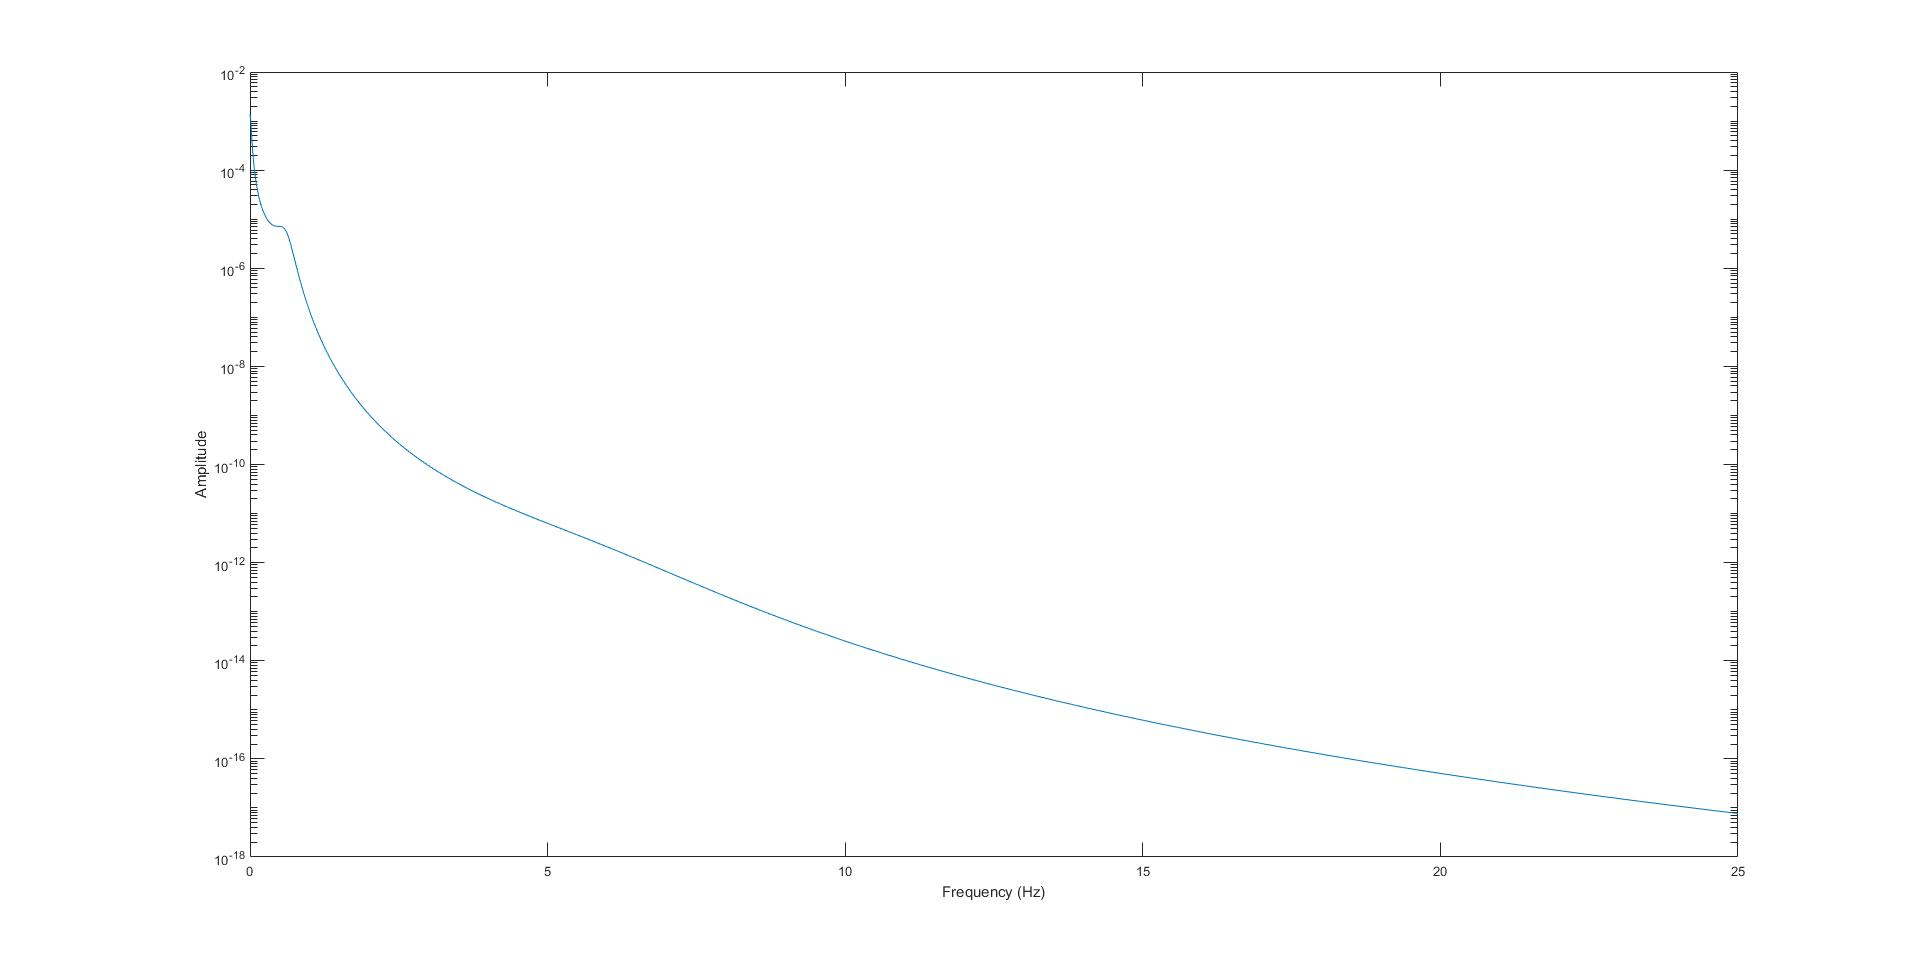
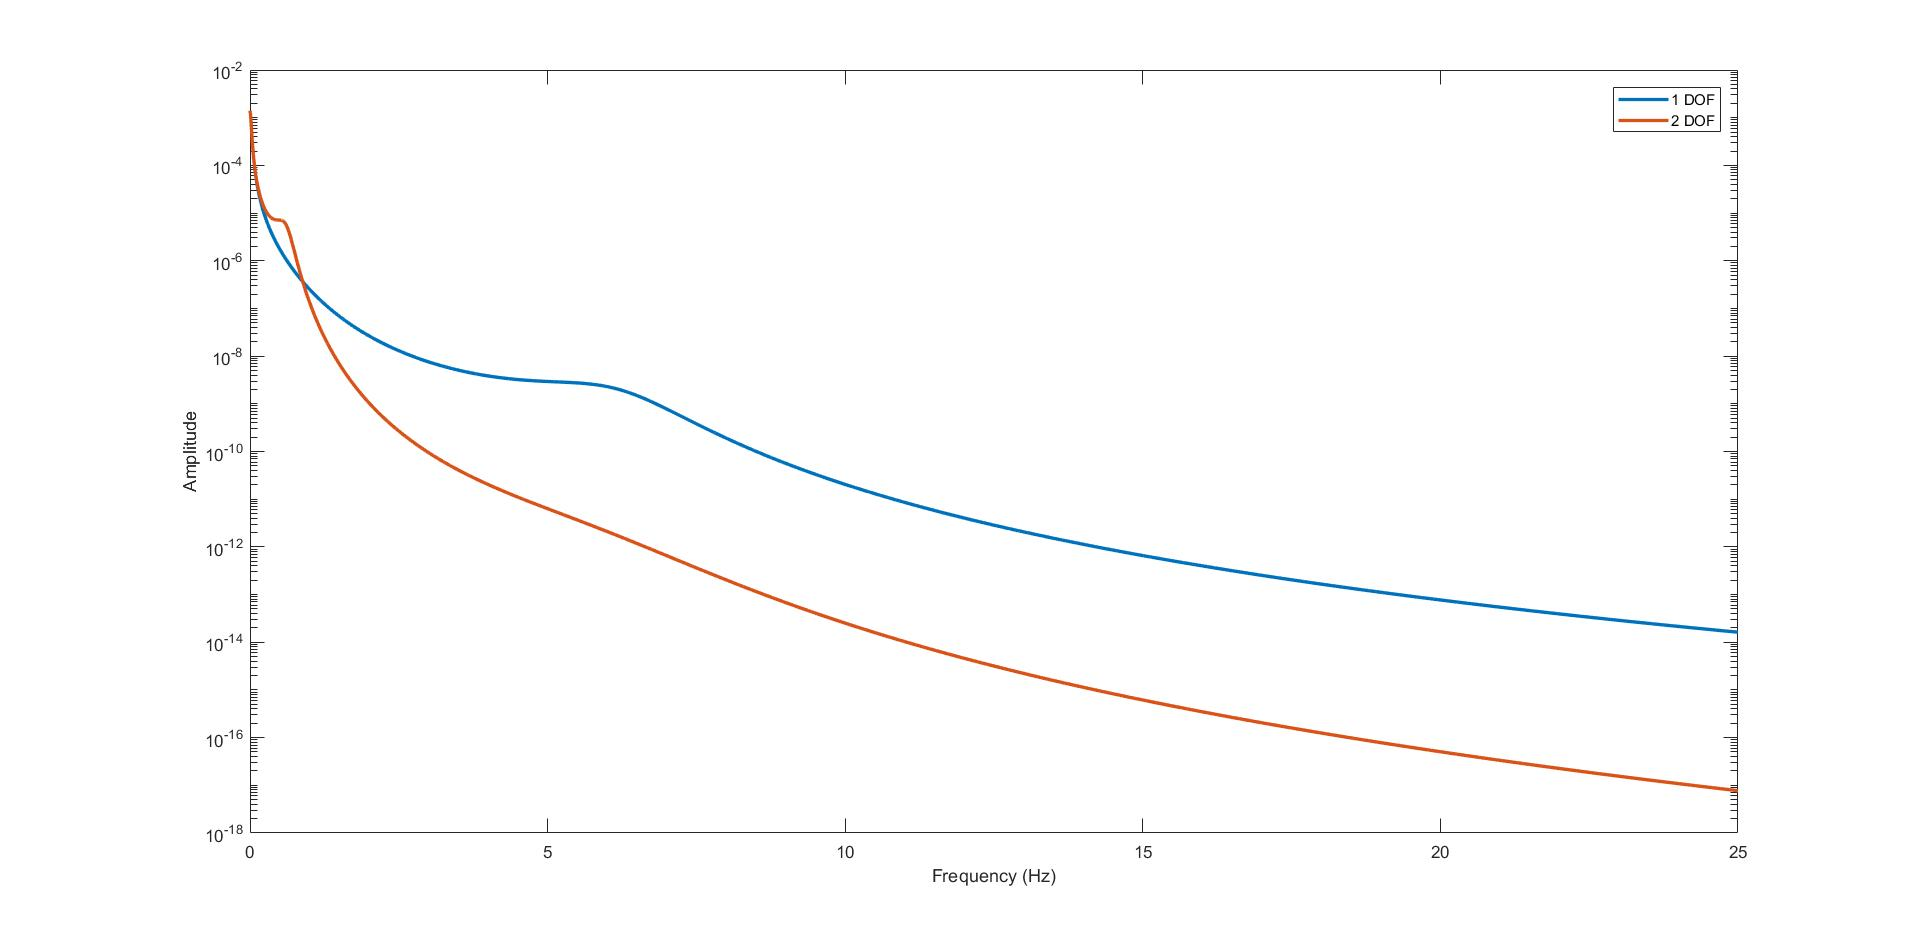
v

diff --git a/task6_2ComparisonBode.m b/task6_2ComparisonBode.m
@@ -1,3 +1,4 @@
+clear all;
 %%TASK 1.1
 m_p = 0.16; %kg
 c_p = 0.4; %Ns/m
@@ -12,36 +13,41 @@ H0 = tf([0,2*zeta*w_n,w_n^2],[1,2*zeta*w_n,w_n^2]);
 H1 = tf([0,2*zeta1*w_n,w_n^2],[1,2*zeta1*w_n,w_n^2]);
 
 
-% sine excitation
-t = 0:0.01:30;
-excitation_sin = 0.05*sin(3*t);
 
-figure(1)
-lsim(H0,excitation_sin,t) % sine excitation
-hold on;
 
-%% Impulse
-stepinput = 0.05*ones([1 length(t)]);
-for i = 101:length(t)
-   stepinput(i) = 0; 
-end
-
-figure(2)
-lsim(H0,stepinput,t) % impulse excitation
-hold on;
-
-%% PSD
-w = 0:0.01:25;
-PSD = (4.028e-7)./((2.88e-4)+(0.68*w.^2)+w.^4);
-H0freqdomain = freqresp(H0,w);
-H0 = abs(H0freqdomain(:))';
-PSD = H0.^2.*PSD;
-
-figure(3)
-semilogy(w,PSD);
-hold on;
-xlabel('Frequency (Hz)')
-ylabel('Amplitude')
+% % sine excitation
+% t = 0:0.01:30;
+% excitation_sin = 0.05*sin(3*t);
+% 
+% figure(1)
+% lsim(H0,excitation_sin,t) % sine excitation
+% hold on;
+% set(findall(gcf,'type','line'), 'LineWidth', 2);
+% 
+% %% Impulse
+% stepinput = 0.05*ones([1 length(t)]);
+% for i = 101:length(t)
+%    stepinput(i) = 0; 
+% end
+% 
+% figure(2)
+% lsim(H0,stepinput,t) % impulse excitation
+% hold on;
+% set(findall(gcf,'type','line'), 'LineWidth', 2);
+% 
+% %% PSD
+% w = 0:0.01:25;
+% PSD = (4.028e-7)./((2.88e-4)+(0.68*w.^2)+w.^4);
+% H0freqdomain = freqresp(H0,w);
+% H0 = abs(H0freqdomain(:))';
+% PSD = H0.^2.*PSD;
+% 
+% figure(3)
+% semilogy(w,PSD);
+% hold on;
+% set(findall(gcf,'type','line'), 'LineWidth', 2);
+% xlabel('Frequency (Hz)')
+% ylabel('Amplitude')
 
 cs = 0.05;
 ms = 0.16;
@@ -61,33 +67,38 @@ s = tf('s');
 H = (-kp-cp*s)/(ks+cs*s+((ks+cs*s+ms*s^2)/(ks+cs*s))*(-ks-cs*s-kp-cp*s-mp*s^2));
 % H = tf(cs*cp*s^2+kp*cs*s+cp*ks*s+ks*kp,(ms*s^2+cs*s+ks)*(mp*s^2+cp*s+kp));
 
-% sine excitation
-t = 0:0.01:30;
-excitation_sin = 0.05*sin(3*t);
+% % sine excitation
+% t = 0:0.01:30;
+% excitation_sin = 0.05*sin(3*t);
+% 
+% figure(1)
+% lsim(H,excitation_sin,t) % sine excitation
+% hold on;
+% set(findall(gcf,'type','line'), 'LineWidth', 2);
+% %% Impulse
+% stepinput = 0.05*ones([1 length(t)]);
+% for i = 101:length(t)
+%    stepinput(i) = 0; 
+% end
+% 
+% figure(2)
+% lsim(H,stepinput,t) % impulse excitation
+% hold on;
+% set(findall(gcf,'type','line'), 'LineWidth', 2);
+% %% PSD
+% w = 0:0.01:25;
+% PSD = (4.028e-7)./((2.88e-4)+(0.68*w.^2)+w.^4);
+% Hfreqdomain = freqresp(H,w);
+% H = abs(Hfreqdomain(:))';
+% PSD = H.^2.*PSD;
+% 
+% figure(3)
+% semilogy(w,PSD);
+% hold on;
+% set(findall(gcf,'type','line'), 'LineWidth', 2);
+% xlabel('Frequency (Hz)')
+% ylabel('Amplitude')
 
-figure(1)
-lsim(H,excitation_sin,t) % sine excitation
-hold on;
-
-%% Impulse
-stepinput = 0.05*ones([1 length(t)]);
-for i = 101:length(t)
-   stepinput(i) = 0; 
-end
-
-figure(2)
-lsim(H,stepinput,t) % impulse excitation
-hold on;
-
-%% PSD
-w = 0:0.01:25;
-PSD = (4.028e-7)./((2.88e-4)+(0.68*w.^2)+w.^4);
-Hfreqdomain = freqresp(H,w);
-H = abs(Hfreqdomain(:))';
-PSD = H.^2.*PSD;
-
-figure(3)
-semilogy(w,PSD);
-hold on;
-xlabel('Frequency (Hz)')
-ylabel('Amplitude')
+figure(4)
+bode(H0,H);
+set(findall(gcf,'type','line'), 'LineWidth', 2);

diff --git a/task82.m b/task82.m
@@ -2,8 +2,8 @@ clear all;
 
 m=22000;
 j=700000;
-c1=40000;
-c2=40000;
+c1=0;%40000;
+c2=0;%40000;
 k1=600000;
 k2=600000;
 l1=6;
@@ -13,30 +13,40 @@ A=[0 1 0 0;(-k1-k2)/m (-c1-c2)/m (k1*l1-k2*l2)/m (l1*c1-l2*c2)/m;0 0 0 1;(k1*l1-
 B=[0 0 0 0;k1/m c1/m k2/m c2/m;0 0 0 0;-k1*l1/j -c1*l1/j k2*l2/j c2*l2/j];
 C=[1 0 0 0;0 0 0 0;0 0 1 0;0 0 0 0];
 D=[0 0 0 0;0 0 0 0;0 0 0 0;0 0 0 0];
-% [num,den]=ss2tf(A,B,C,D,3);
-% bounce=tf(num(1,:),den);
-% pitch=tf(num(3,:),den);
-% bode(bounce,pitch);
+[num,den]=ss2tf(A,B,C,D,3);
+bounce=tf(num(1,:),den);
+pitch=tf(num(3,:),den);
+bode(bounce,pitch);
+set(findall(gcf,'type','line'), 'LineWidth', 2);
 
-sim('task8_2')
-
-figure(1)
-plot(simout.Time, simout.Data(:,1));
-hold on;
-% end
-plot(simout1.Time, simout1.Data(:,1));
-hold on;
-xlabel('Time(sec)');
-ylabel('Amplitude');
-legend('Output','Input');
-
-figure(2)
-plot(simout2.Time, simout2.Data(:,1));
-hold on;
-% end
-plot(simout1.Time, simout1.Data(:,1));
-hold on;
-xlabel('Time(sec)');
-ylabel('Amplitude');
-legend('Output','Input');
+% %%%Excitation
+% % excite=1; %%Impulse
+% excite = 2; %%sine 1Hz
+% % excite = 3; %%sine 8Hz
+% 
+% sim('task8_2')
+% 
+% figure(1)
+% plot(simout.Time, simout.Data(:,1));
+% hold on;
+% set(findall(gcf,'type','line'), 'LineWidth', 2);
+% % end
+% plot(simout1.Time, simout1.Data(:,1));
+% hold on;
+% set(findall(gcf,'type','line'), 'LineWidth', 2);
+% xlabel('Time(sec)');
+% ylabel('Amplitude');
+% legend('Output','Input');
+% 
+% figure(2)
+% plot(simout2.Time, simout2.Data(:,1));
+% hold on;
+% set(findall(gcf,'type','line'), 'LineWidth', 2);
+% % end
+% plot(simout1.Time, simout1.Data(:,1));
+% hold on;
+% set(findall(gcf,'type','line'), 'LineWidth', 2);
+% xlabel('Time(sec)');
+% ylabel('Amplitude');
+% legend('Output','Input');
 
